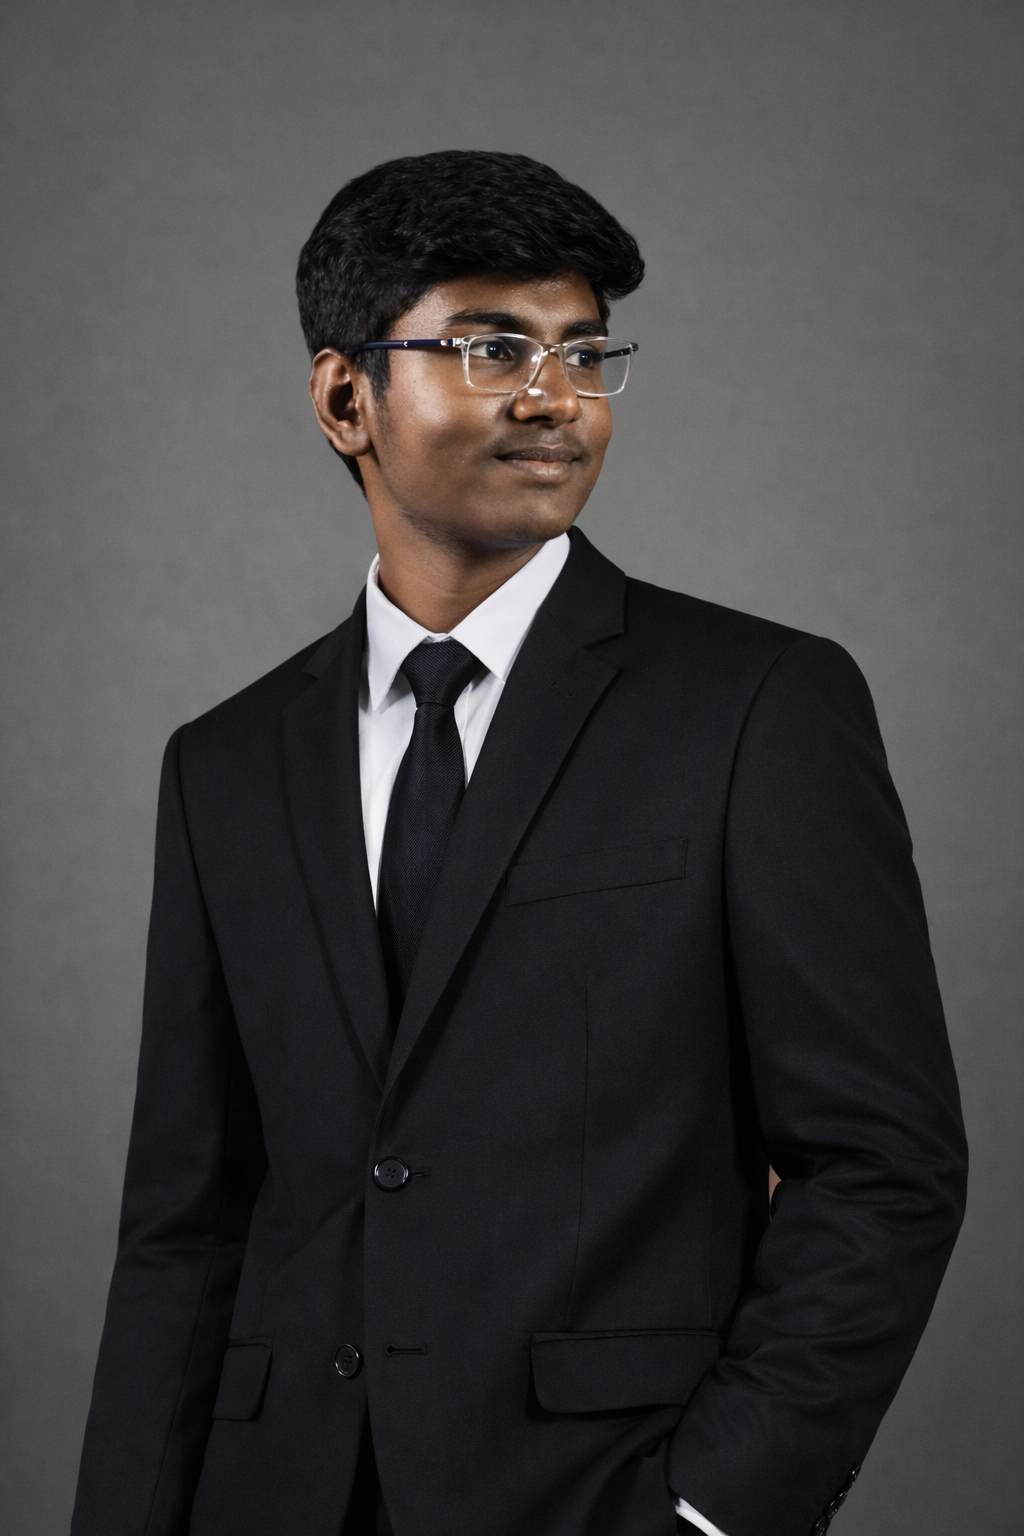
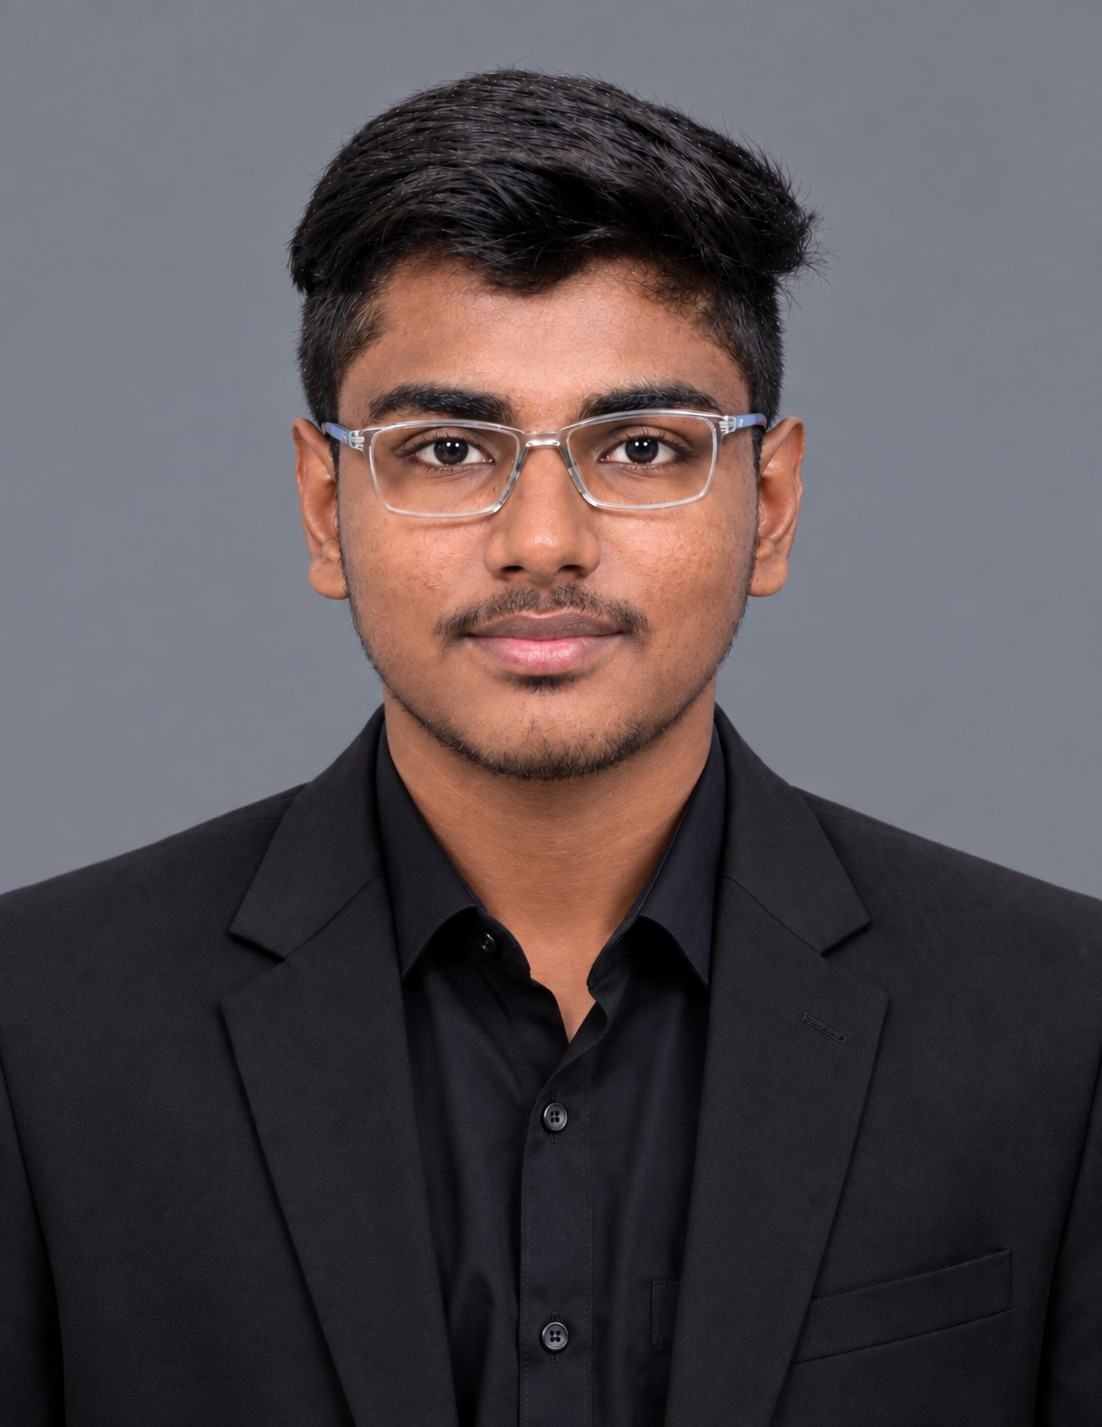
Update executive leadership team photos and asset references

diff --git a/client/src/pages/Home.tsx b/client/src/pages/Home.tsx
@@ -46,11 +46,11 @@ import { motion } from "framer-motion";
 import { Link } from "wouter";
 
 import founderPhoto from "@assets/file_000000002dc871fa82cdcaab5c34b0ec_1776134862189.png";
-import narendraPhoto from "@assets/narendra_prasath_ceo.jpeg";
+import narendraPhoto from "@assets/narendra_prasath_ceo.png";
 import yuvanPhoto from "@assets/yuvan_shankar_raja_co_founder.png";
 import santhoshPhoto from "@assets/santhosh_managing_director.png";
 import yeswanthPhoto from "@assets/yeswanth_director.png";
-import sriPrajithPhoto from "@assets/sri_prajith_cto_cfo.jpg";
+import sriPrajithPhoto from "@assets/sri_prajith_cto_cfo.png";
 import logoImg from "@assets/vy_nextgen_logo.png";
 import heroImage from "@assets/generated_images/modern_ai_it_industry_scene_for_hero_background.png";
 

diff --git a/client/src/pages/About.tsx b/client/src/pages/About.tsx
@@ -20,11 +20,11 @@ import {
 
 import { FaWhatsapp } from "react-icons/fa";
 import founderPhoto from "@assets/file_000000002dc871fa82cdcaab5c34b0ec_1776134862189.png";
-import narendraPhoto from "@assets/narendra_prasath_ceo.jpeg";
+import narendraPhoto from "@assets/narendra_prasath_ceo.png";
 import yuvanPhoto from "@assets/yuvan_shankar_raja_co_founder.png";
 import santhoshPhoto from "@assets/santhosh_managing_director.png";
 import yeswanthPhoto from "@assets/yeswanth_director.png";
-import sriPrajithPhoto from "@assets/sri_prajith_cto_cfo.jpg";
+import sriPrajithPhoto from "@assets/sri_prajith_cto_cfo.png";
 import logoImg from "@assets/vy_nextgen_logo.png";
 
 export interface ExecutiveLeader {
